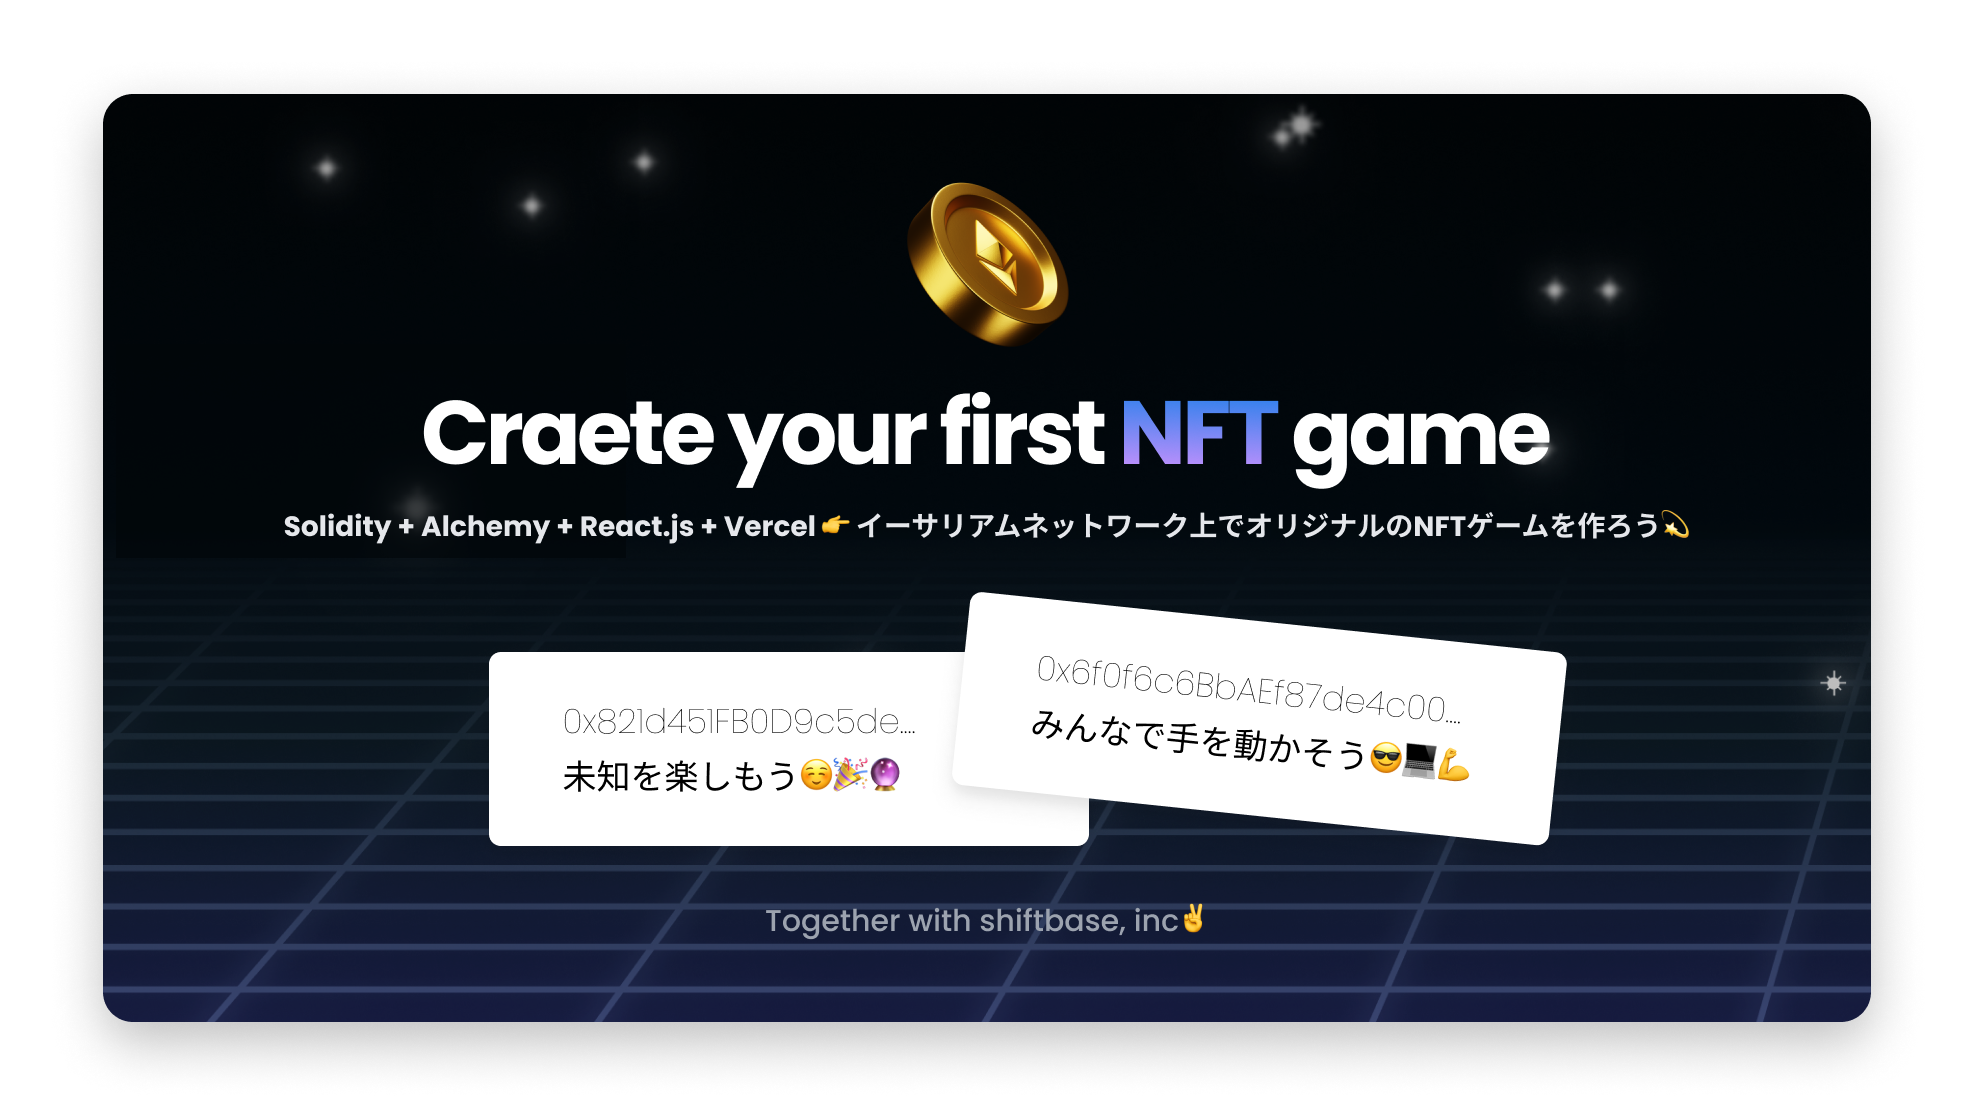
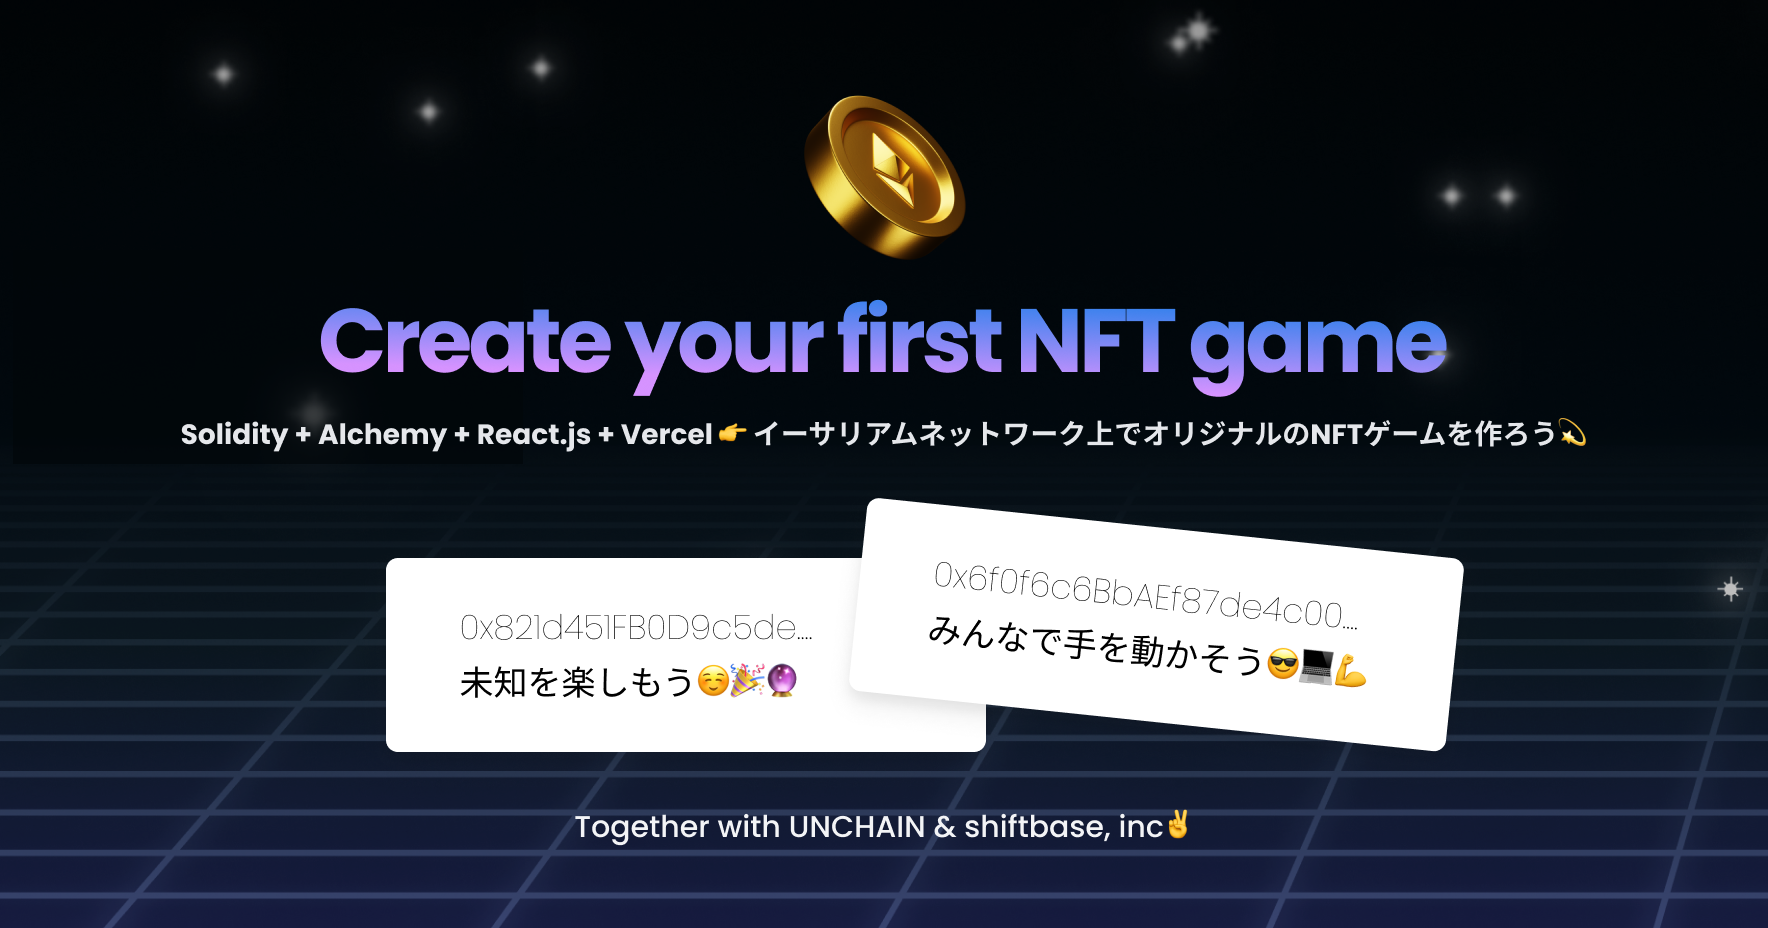
images

diff --git a/public/index.html b/public/index.html
@@ -10,20 +10,7 @@
       content="Web site created using create-react-app"
     />
     <link rel="apple-touch-icon" href="%PUBLIC_URL%/logo192.png" />
-    <!--
-      manifest.json provides metadata used when your web app is installed on a
-      user's mobile device or desktop. See https://developers.google.com/web/fundamentals/web-app-manifest/
-    -->
     <link rel="manifest" href="%PUBLIC_URL%/manifest.json" />
-    <!--
-      Notice the use of %PUBLIC_URL% in the tags above.
-      It will be replaced with the URL of the `public` folder during the build.
-      Only files inside the `public` folder can be referenced from the HTML.
-
-      Unlike "/favicon.ico" or "favicon.ico", "%PUBLIC_URL%/favicon.ico" will
-      work correctly both with client-side routing and a non-root public URL.
-      Learn how to configure a non-root public URL by running `npm run build`.
-    -->
     <title>Create your NFT game.</title>
     <meta name="title" content="Create your original NFT game." />
     <meta name="description" content="Solidity + React.js + Vercel 👉 ブロックチェーンでオリジナルの NFT ゲームを作ろう✨" />
@@ -46,15 +33,5 @@
   <body>
     <noscript>You need to enable JavaScript to run this app.</noscript>
     <div id="root"></div>
-    <!--
-      This HTML file is a template.
-      If you open it directly in the browser, you will see an empty page.
-
-      You can add webfonts, meta tags, or analytics to this file.
-      The build step will place the bundled scripts into the <body> tag.
-
-      To begin the development, run `npm start` or `yarn start`.
-      To create a production bundle, use `npm run build` or `yarn build`.
-    -->
   </body>
 </html>

diff --git a/README.md b/README.md
@@ -1,6 +1,6 @@
 # Create your first NFT game.
 
-![](https://i.imgur.com/cNZxLk5.png)
+![](https://i.imgur.com/7MVVWlV.png)
 
 このコースを始めるには、下記のステップを実行してください。
 
